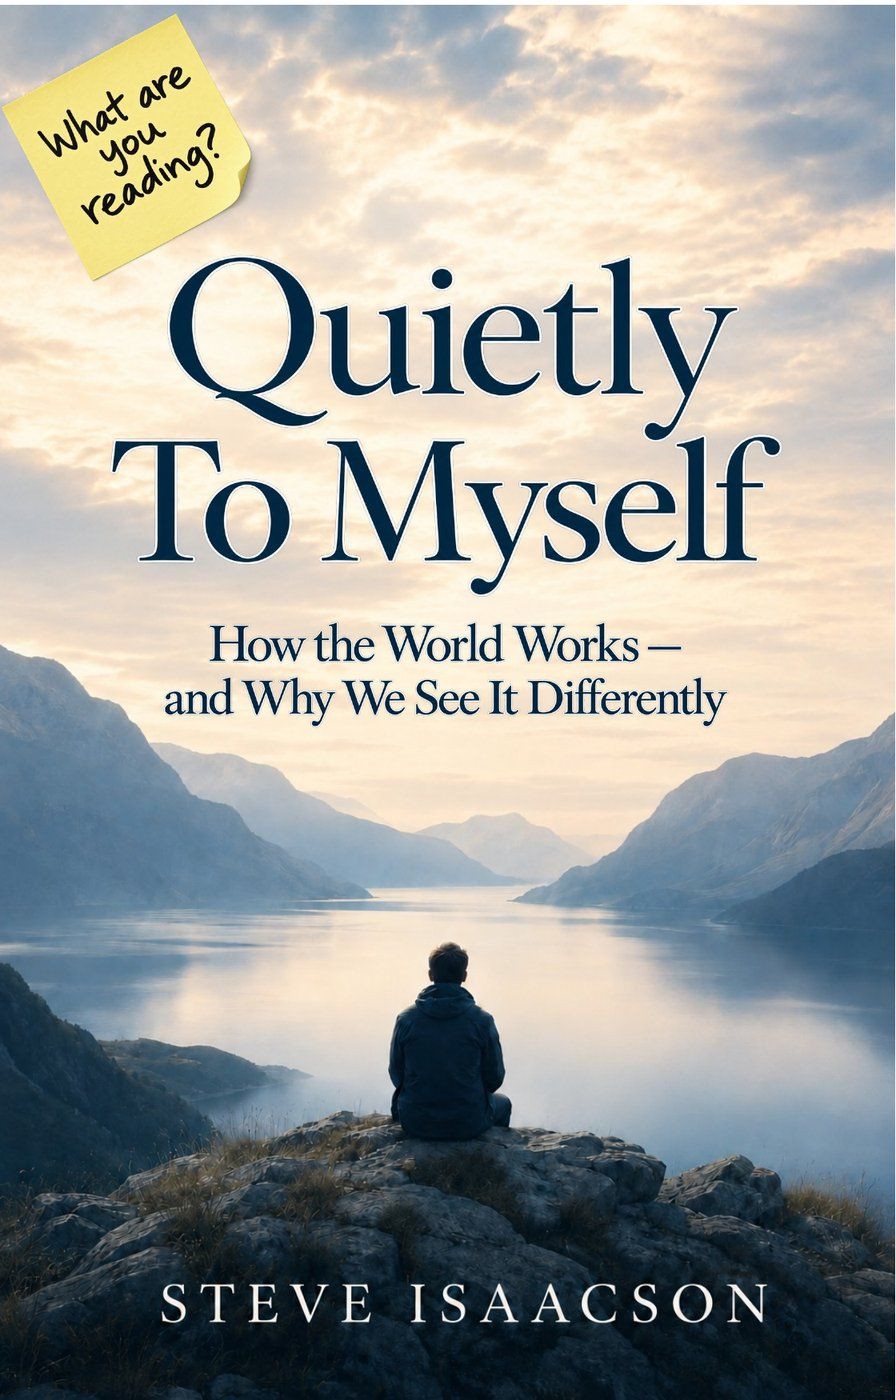
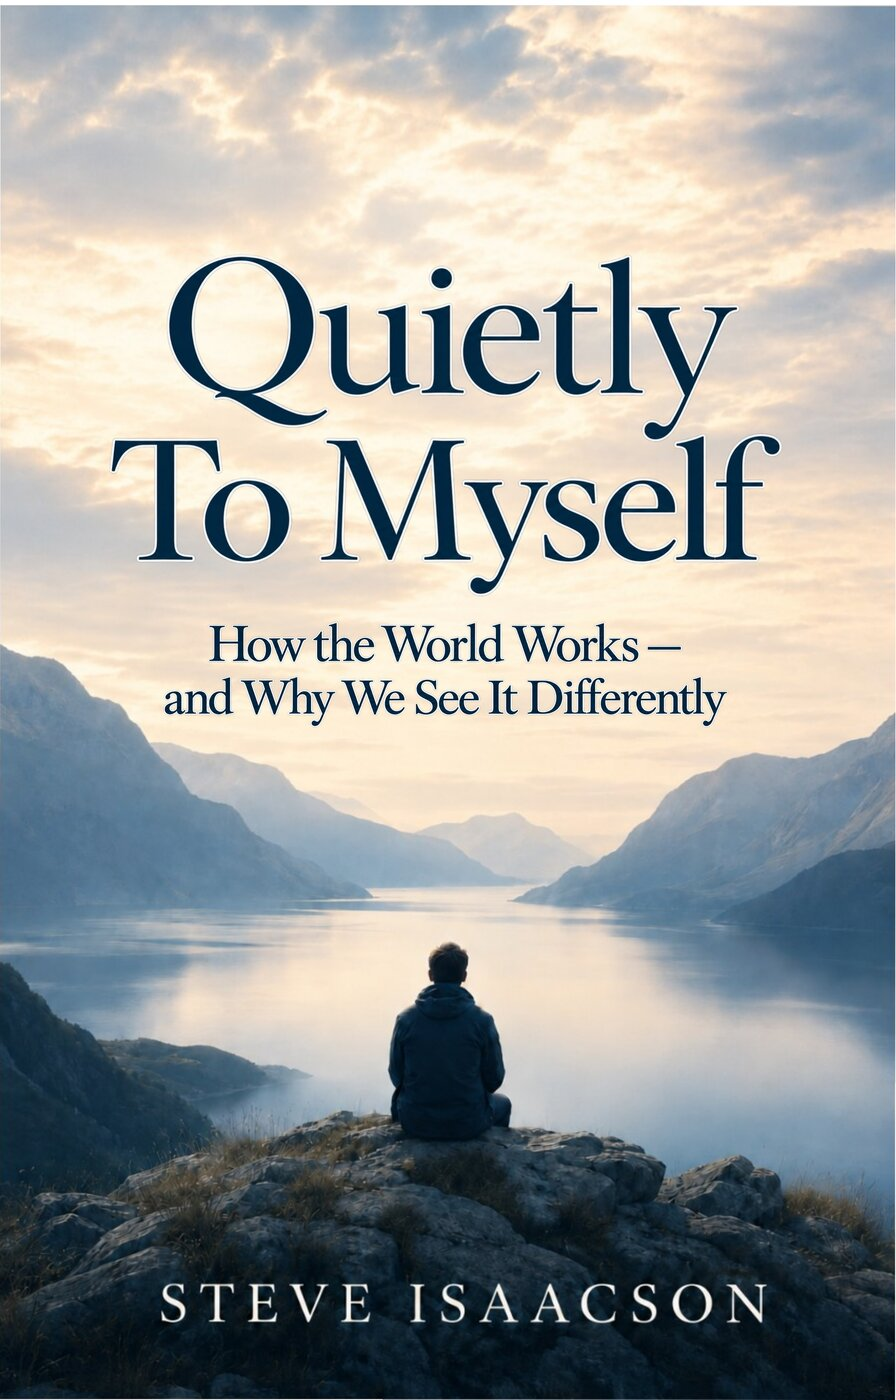
Update cover images and blurb to match new cover

diff --git a/index.html b/index.html
@@ -45,7 +45,8 @@
       <div class="blurb">
         <h2>Why do intelligent, sincere people see the same world so differently?</h2>
         <p>Maybe the problem is not that everyone else is stupid or evil (although they might be). Maybe the problem is that we keep arguing from different starting points, using the same words to mean different things, and pretending that moral intuitions are self-evident when in fact they are not.</p>
-        <p><cite>Quietly To Myself</cite> is an informal, argumentative tour through some of today's loudest debates. It asks what we can know, what we should value, whether science can determine morality, when compassion requires an exception, and who gets to decide when individuals, society, and the state disagree.</p>
+        <p><cite>Quietly To Myself</cite> is an informal, argumentative tour through some of today's loudest debates—and the ideas beneath them. What can we know? What should we value? Who decides?</p>
+        <p>From God and morality to abortion, racism, reparations, free speech and taxing the rich, Steve Isaacson looks at how our starting points shape our conclusions. Along the way, he asks readers to slow down, define their terms, weigh competing values, and test their own convictions.</p>
         <dl class="details">
           <dt>Edition</dt><dd>First edition, 2026</dd>
           <dt>ISBN</dt><dd>979-8-1606-6593-1</dd>
